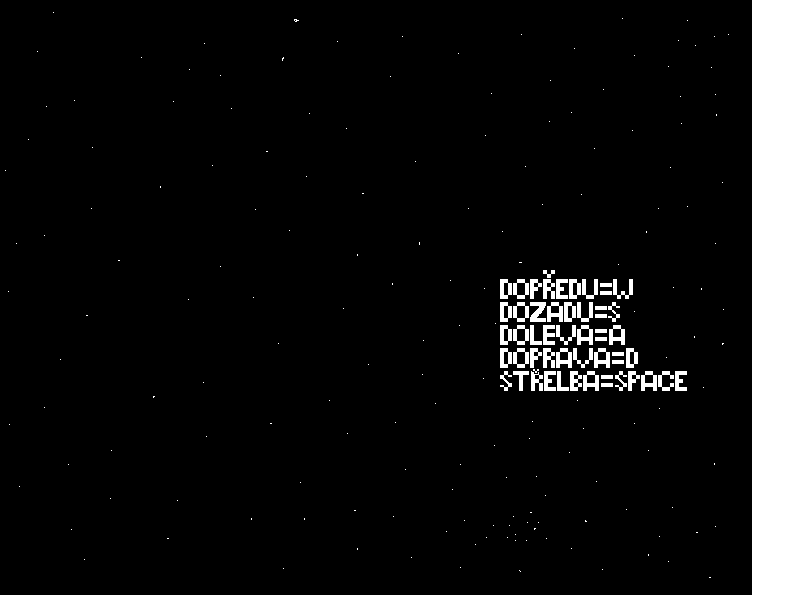
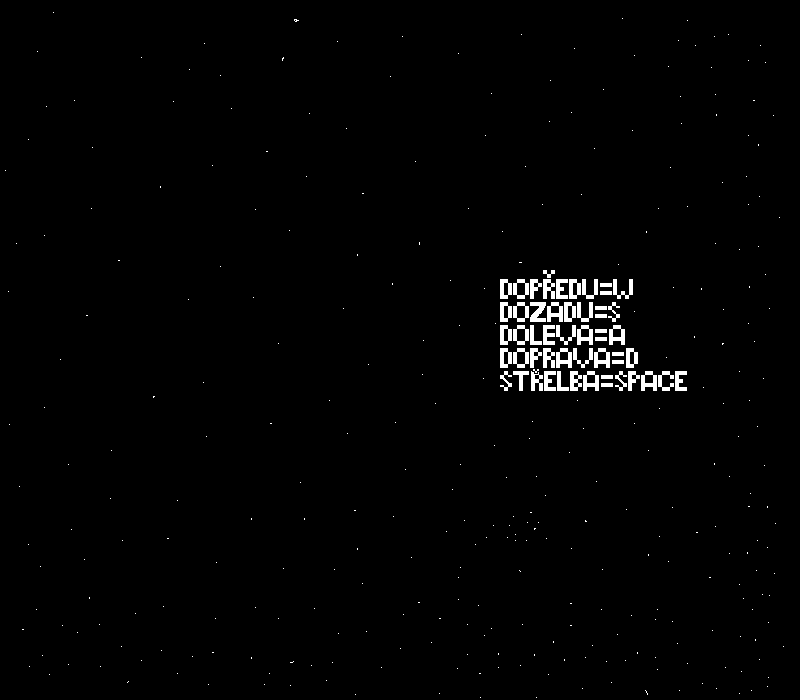
Funkční scrolling bg
opravit textury enemy a hrace, upravit enemy spawn

Changed region(s): [[0.0, 0.0, 1.0, 1.0], [0.625, 0.39, 0.875, 0.66]]

diff --git a/source/pozadi.py b/source/pozadi.py
@@ -10,28 +10,34 @@ class Pozadi:
         self.vyska = bg_a.get_height()
         self.y_bg_a = -self.vyska
         self.y_bg_b = -self.vyska * 2
+        self.y_bg_c = 0
         self.pozice_hrace_y = pozice_hrace_y
         self.rozliseni_y = rozliseni_y
 
     def update(self, okno):
-        okno.blit(self.bg_c, (0, 0))
 
-        if self.pozice_hrace_y <= self.rozliseni_y * 0.2:
+        if self.pozice_hrace_y <= self.rozliseni_y - 31:
             self.y_bg_a += self.scroll_speed
             self.y_bg_b += self.scroll_speed
+            self.y_bg_c += self.scroll_speed
 
-        if self.pozice_hrace_y > (self.rozliseni_y - 20) * 0.8:
+        if self.pozice_hrace_y >= 0:
             self.y_bg_a -= self.scroll_speed
             self.y_bg_b -= self.scroll_speed
+            self.y_bg_c -= self.scroll_speed
 
-        if self.y_bg_a >= 0:
+        if self.y_bg_a >= self.rozliseni_y:
             self.y_bg_a = self.y_bg_b - self.vyska
-        if self.y_bg_b >= 0:
+
+        if self.y_bg_b >= self.rozliseni_y:
             self.y_bg_b = self.y_bg_a - self.vyska
+
         if self.y_bg_a <= -self.vyska * 2:
             self.y_bg_a = self.y_bg_b + self.vyska
+
         if self.y_bg_b <= -self.vyska * 2:
             self.y_bg_b = self.y_bg_a + self.vyska
 
         okno.blit(self.bg_a, (0, self.y_bg_a))
         okno.blit(self.bg_b, (0, self.y_bg_b))
+        okno.blit(self.bg_c, (0, self.y_bg_c))
